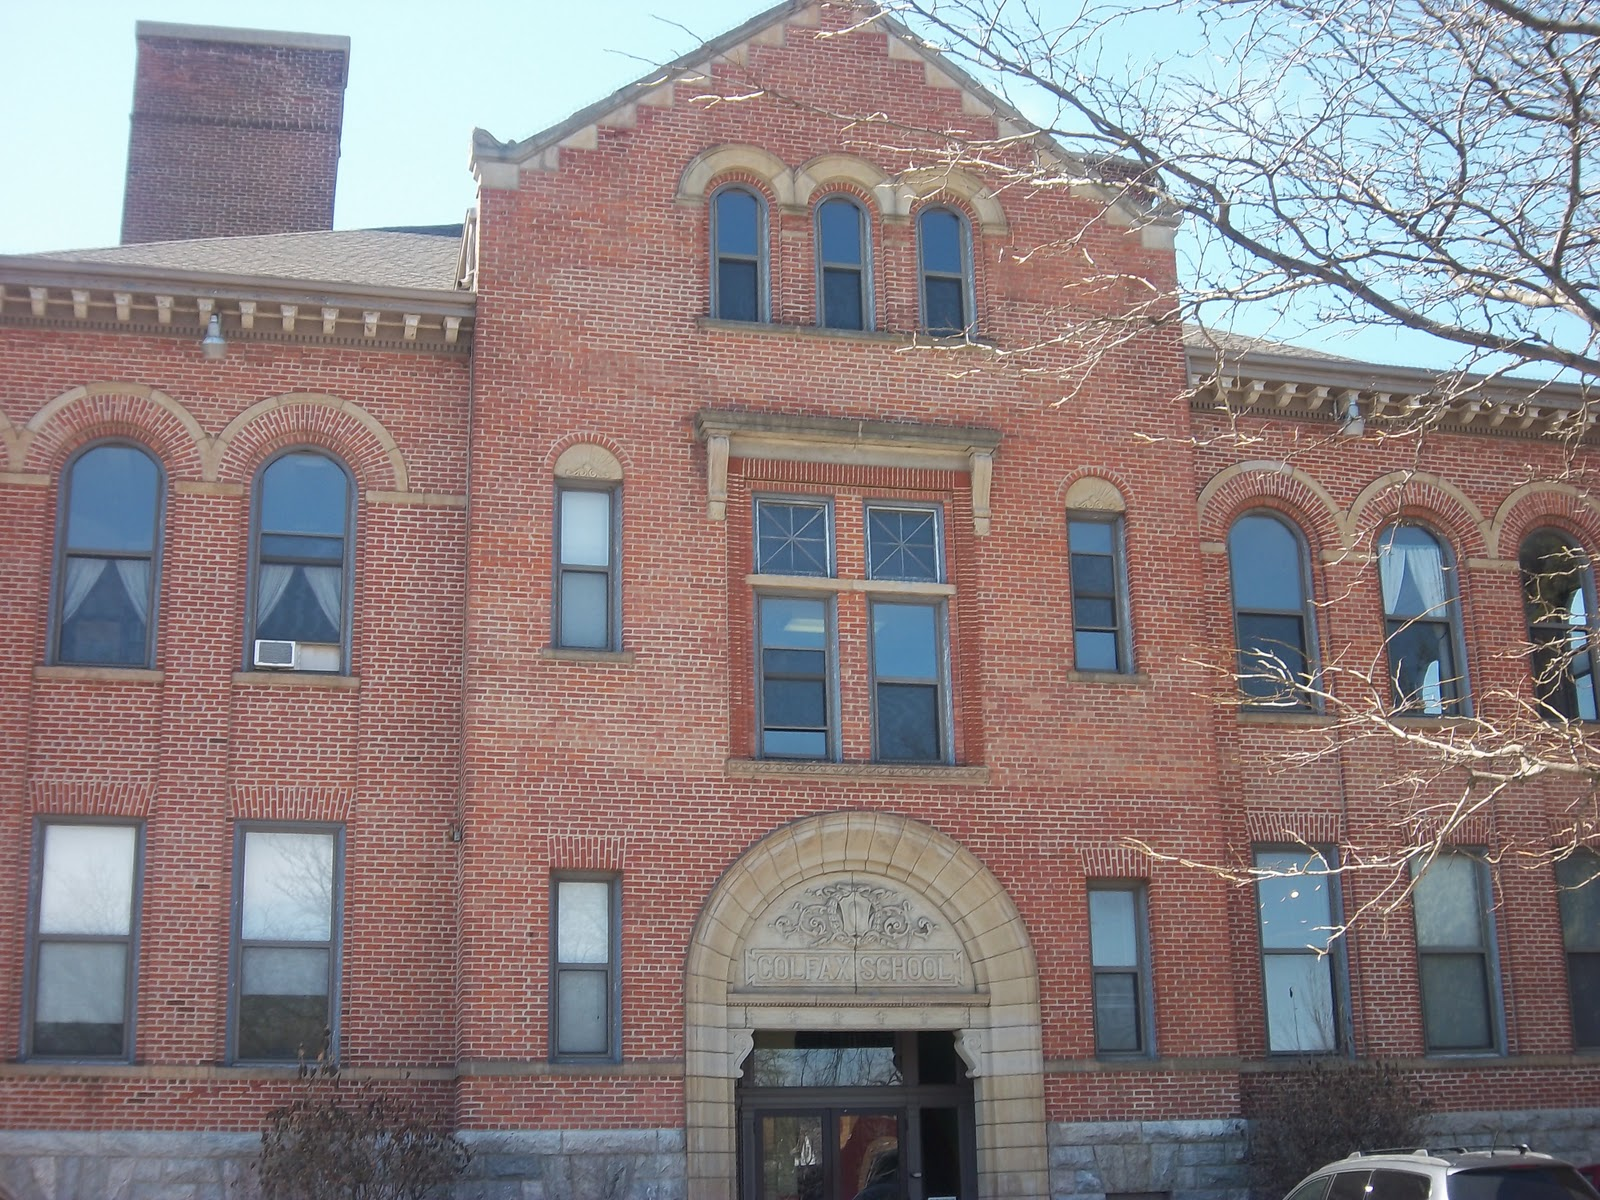
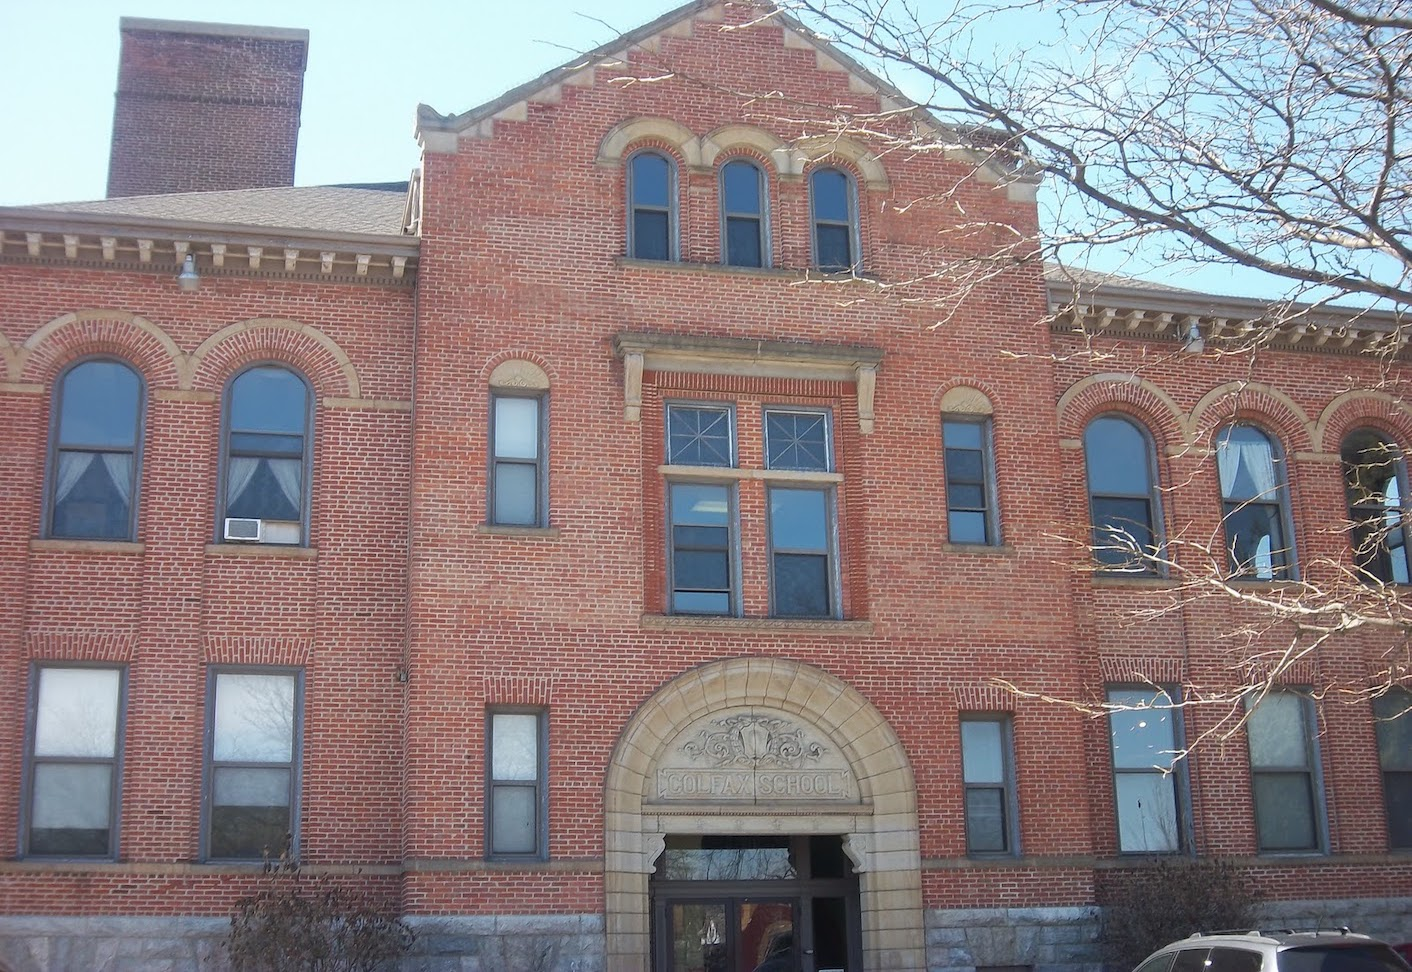
index page, edit pictures

diff --git a/alenaIndex.html b/alenaIndex.html
@@ -1,0 +1,130 @@
+<!DOCTYPE html>
+<html lang="en">
+
+<head>
+    <title> Imani Unidad </title>
+    <meta charset="utf-8">
+    <link rel="stylesheet" href="master.css">
+    <link rel="stylesheet" href="https://maxcdn.bootstrapcdn.com/bootstrap/3.3.2/css/bootstrap.min.css">
+<script src="https://ajax.googleapis.com/ajax/libs/jquery/1.11.2/jquery.min.js"></script>
+<script src="https://maxcdn.bootstrapcdn.com/bootstrap/3.3.2/js/bootstrap.min.js"></script>
+    <link href="https://fonts.googleapis.com/css?family=Bungee+Shade" rel="stylesheet">
+    <link href="https://fonts.googleapis.com/css?family=Monoton" rel="stylesheet">
+    <link href="https://fonts.googleapis.com/css?family=Ubuntu" rel="stylesheet">
+    
+<script src="/js/navigbar.js"></script>
+
+</head>
+
+<body>   
+    <div class="container">
+        <nav class="navbar navbar-default navbar-fixed-top stroke" id="navMenu">
+        <div class="container">
+            <div class="navbar-header">
+                <a id="title" class="navbar-brand href=#"> Imani Unidad </a>
+            </div>
+            <ul class="nav navbar-nav text-center">
+                <li><a href="#">Home</a></li>
+
+                <li class="dropdown"><a href="#" class="dropdown-toggle" data-toggle="dropdown">About Us 
+                    <span class="caret"></span>
+                </a>
+                    <ul class="dropdown-menu" role="menu">
+                        <li><a href="#">History</a></li>
+                        <li><a href="#">Staff</a></li>
+                    </ul>
+                </li>
+
+                <li><a href="#">Services</a></li>
+
+
+                <li><a href="#">Important Links</a></li>
+
+                <li><a href="#">Contact Us</a></li>
+
+                <li class="dropdown"><a href="#" class="dropdown-toggle" data-toggle="dropdown">Get Involved 
+                    <span class="caret"></span>
+                </a>
+                    <ul class="dropdown-menu" role="menu">
+                        <li><a href="#">Volunteer</a></li>
+                        <li><a href="#">Donate</a></li>
+                    </ul>
+                </li>
+
+            </ul>
+            </div>
+                <div id="head" class="container-fluid">
+                    <div id="header-background"></div>
+                </div>
+        </nav>
+    </div>
+
+   
+    <div class="godown-60" id="godown"></div>
+
+    <div class="container">
+        <div id="myCarousel" class="carousel slide" data-ride="carousel">
+                <!-- Indicators -->
+                <ol class="carousel-indicators">
+                  <li data-target="#myCarousel" data-slide-to="0" class="active"></li>
+                  <li data-target="#myCarousel" data-slide-to="1"></li>
+                  <li data-target="#myCarousel" data-slide-to="2"></li>
+                </ol>
+              
+                <!-- Wrapper for slides -->
+                <div class="carousel-inner">
+                  <div class="item active">
+                        <img src="img/teens.jpg" class="img-responsive" width="100%" height="324" alt="Teens">
+                  </div>
+              
+                  <div class="item">
+                        <img src="img/postCard-1.jpg" class="img-responsive" width="100%" height="324" alt="PostCard">
+                  </div>
+              
+                  <div class="item">
+                    <img src="img/colfax.jpg" class="img-responsive" width="100%" height="324" alt="Building">
+                  </div>
+
+
+                </div>
+              
+                <!-- Left and right controls -->
+                <a class="left carousel-control" href="#myCarousel" data-slide="prev">
+                  <span class="glyphicon glyphicon-chevron-left"></span>
+                  <span class="sr-only">Previous</span>
+                </a>
+                <a class="right carousel-control" href="#myCarousel" data-slide="next">
+                  <span class="glyphicon glyphicon-chevron-right"></span>
+                  <span class="sr-only">Next</span>
+                </a>
+              </div>
+    </div>
+
+    <div class=container id="index"> 
+        <h1>Our Mission</h1>
+        <h2>Imani Unidad seeks to help marginalized members of the South Bend and Elkhart communities to improve their social, mental and emotional well-being through counseling, advocacy, and preventative education.</h2>
+     </div>
+
+
+
+     <div class="godown-60" id="godown"></div>
+<div class="fluid-container">
+    <footer class="footer">
+        <div id="footText" class="container">
+            <span class="text-muted">914 Lincoln Way W South Bend, IN 46616 | (574) 288-2887 and email</span>
+        </div>
+    </footer>
+</div>
+
+
+
+
+<script src="https://code.jquery.com/jquery-3.2.1.slim.min.js" integrity="sha384-KJ3o2DKtIkvYIK3UENzmM7KCkRr/rE9/Qpg6aAZGJwFDMVNA/GpGFF93hXpG5KkN" crossorigin="anonymous"></script>
+<script src="https://cdnjs.cloudflare.com/ajax/libs/popper.js/1.12.9/umd/popper.min.js" integrity="sha384-ApNbgh9B+Y1QKtv3Rn7W3mgPxhU9K/ScQsAP7hUibX39j7fakFPskvXusvfa0b4Q" crossorigin="anonymous"></script>
+<script src="https://maxcdn.bootstrapcdn.com/bootstrap/4.0.0/js/bootstrap.min.js" integrity="sha384-JZR6Spejh4U02d8jOt6vLEHfe/JQGiRRSQQxSfFWpi1MquVdAyjUar5+76PVCmYl" crossorigin="anonymous"></script>
+
+    
+
+</body>
+
+</html>

diff --git a/master.css b/master.css
@@ -12,8 +12,12 @@
 }
 
 body {
-    padding-top: 120px;
+    padding-top: 130px;
     text-align: center;
+}
+
+#godown{
+   height: 60px;
 }
 
 #navbar {
@@ -183,5 +187,25 @@ button {
 }
 
 #staff h2 {
+    color: #539537;
+}
+
+.carousel {
+    width: auto;
+    height:auto;
+    overflow: hidden;
+} 
+
+#index {
+    text-align: center;
+    font-family: 'Ubuntu', sans-serif;
+    color: grey;
+}
+
+#index h1 {
+    color:#132c86;
+}
+
+#index h2 {
     color: #539537;
 }

diff --git a/scripts/navigbar.js b/scripts/navigbar.js
@@ -1,0 +1,9 @@
+//insert this in your jquery
+//control the resizing of menu and go down the content in the correct position
+
+    $("#navMenu").resize(function () {
+        $('#godown').height($("#navMenu").height() + 10);
+    });
+
+    if ($("#navMenu").height() > $('#godown').height()) $('#godown').height($("#navMenu").height() + 10);
+
